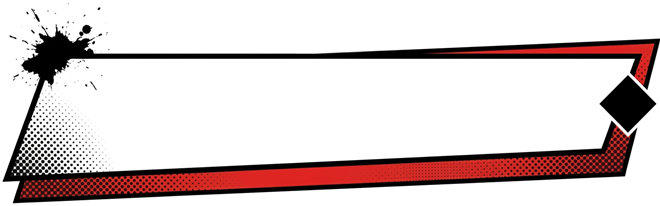
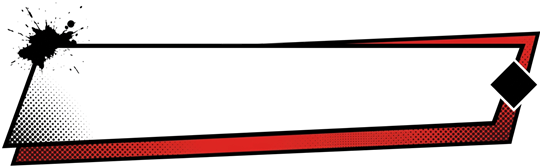
Carteles de habilidad mejor cuadrados
Mas pequenos (540 px) y recolocados para no tapar nada: el propio a la
izquierda, entre las bolitas del rival y la cabeza de tu Pokemon; el del
rival arriba a la derecha, por encima del suyo. Texto mas grande y
centrado en el panel blanco.

diff --git a/Pokémon Ostinato/Plugins/Ostinato/016_CombateHD.rb b/Pokémon Ostinato/Plugins/Ostinato/016_CombateHD.rb
@@ -907,7 +907,9 @@ end
 # El cartel de habilidad ("Mar Llamas de Fennekin"), al estilo de la interfaz
 #-------------------------------------------------------------------------------
 class Battle::Scene::AbilitySplashBar
-  OST_Y = [400, 24]           # propio (sale por la izquierda), rival (por la derecha)
+  # propio: a la izquierda, entre las bolitas del rival y la cabeza de tu
+  # Pokemon; rival: arriba a la derecha, por encima de su Pokemon
+  OST_Y = [364, 0]
 
   alias ostcomb_initialize initialize
   def initialize(side, viewport = nil)
@@ -937,12 +939,12 @@ class Battle::Scene::AbilitySplashBar
     return if !@battler
     # el texto, en negro y centrado en lo blanco (lejos de la mancha y la trama,
     # que en el del rival quedan a la derecha)
-    x0 = (@side == 0) ? 125 : 65
-    OstCombate.fuente(self.bitmap, 56)
-    OstCombate.texto(self.bitmap, x0, 58, 470, 62, @battler.abilityName.upcase, 1,
+    x0 = (@side == 0) ? 100 : 40
+    OstCombate.fuente(self.bitmap, 54)
+    OstCombate.texto(self.bitmap, x0, 44, 400, 56, @battler.abilityName.upcase, 1,
                      Color.new(16, 16, 16))
-    OstCombate.fuente(self.bitmap, 32)
-    OstCombate.texto(self.bitmap, x0, 118, 470, 40, _INTL("de {1}", @battler.name).upcase, 1,
+    OstCombate.fuente(self.bitmap, 30)
+    OstCombate.texto(self.bitmap, x0, 98, 400, 34, _INTL("de {1}", @battler.name).upcase, 1,
                      Color.new(200, 30, 40))
   end
 end
